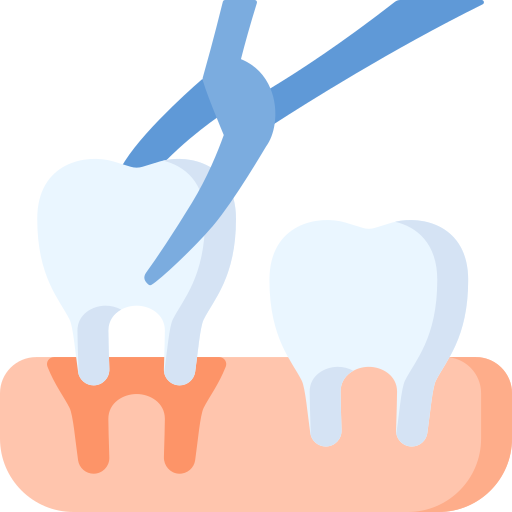
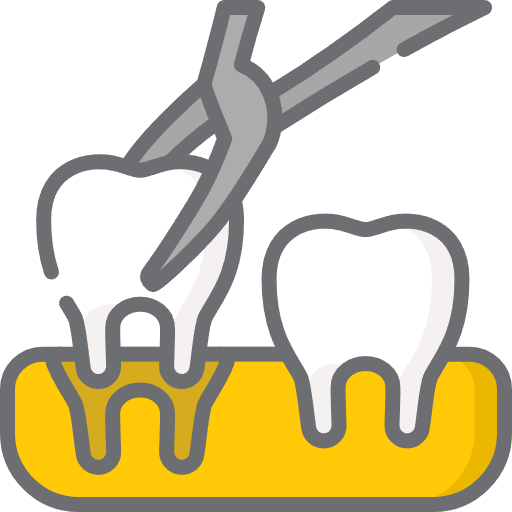
photo_change for treatment

diff --git a/index.html b/index.html
@@ -348,21 +348,21 @@
             <div class="item-container"> 
                 <div class="treatment-item" onclick="window.location.href='braces.html';">
                     <span class="number">01</span>
-                    <img src="assets/image/teeth_braces.png" alt="Braces Icon">
+                    <img src="assets/image/Braces.png" alt="Braces Icon">
                     <p>Braces</p>
                     <span class="icon"><i class="bi bi-arrow-up-right-square-fill"></i></span>  
                 </div>
                 <div class="separator"></div>
                 <div class="treatment-item" onclick="window.location.href='teeth_whitening.html';">
                     <span class="number">02</span>
-                    <img src="assets/image/teeth_clean.png" alt="Teeth Whitening Icon">
+                    <img src="assets/image/Teeth Whitening.png" alt="Teeth Whitening Icon">
                     <p>Teeth Whitening</p>
                     <span class="icon"><i class="bi bi-arrow-up-right-square-fill"></i></span>  
                 </div>
                 <div class="separator"></div>
                 <div class="treatment-item" onclick="window.location.href='#';">
                     <span class="number">03</span>
-                    <img src="assets/image/electric-toothbrush_15537822.png" alt="Scaling & Polishing Icon">
+                    <img src="assets/image/Scaling.png" alt="Scaling & Polishing Icon">
                     <p>Scaling & Polishing</p>
                     <span class="icon"><i class="bi bi-arrow-up-right-square-fill"></i></span>  
                 </div>
@@ -376,14 +376,14 @@
                 <div class="separator"></div>                
                 <div class="treatment-item" onclick="window.location.href='#';">
                     <span class="number">05</span>
-                    <img src="assets/image/teeth_Dental_veneers.png" alt="Dental Veneers Icon">
+                    <img src="assets/image/veener.png" alt="Dental Veneers Icon">
                     <p>Dental Veneers</p>
                     <span class="icon"><i class="bi bi-arrow-up-right-square-fill"></i></span>  
                 </div>
                 <div class="separator"></div>
                 <div class="treatment-item" onclick="window.location.href='#';">
                     <span class="number">06</span>
-                    <img src="assets/image/tooth_Fillings.png" alt="Fillings Icon">
+                    <img src="assets/image/filling.png" alt="Fillings Icon">
                     <p>Fillings</p>
                     <span class="icon"><i class="bi bi-arrow-up-right-square-fill"></i></span>  
                 </div>
@@ -391,14 +391,14 @@
                 
                 <div class="treatment-item" onclick="window.location.href='#';">
                     <span class="number">07</span>
-                    <img src="assets/image/Teeth-root-canal.png" alt="Root Canal Treatment Icon">
+                    <img src="assets/image/root-canal.png" alt="Root Canal Treatment Icon">
                     <p>Root Canal Treatment</p>
                     <span class="icon"><i class="bi bi-arrow-up-right-square-fill"></i></span>  
                 </div>
                 <div class="separator"></div>
                 <div class="treatment-item" onclick="window.location.href='#';">
                     <span class="number">08</span>
-                    <img src="assets/image/teeth_Crown&Bridge.png" alt="Crown & Bridge Icon">
+                    <img src="assets/image/bridge.png" alt="Crown & Bridge Icon">
                     <p>Crown & Bridge</p>
                     <span class="icon"><i class="bi bi-arrow-up-right-square-fill"></i></span>
                 </div>
@@ -406,21 +406,21 @@
                 <div class="separator"></div>
                 <div class="treatment-item" onclick="window.location.href='#';">
                     <span class="number">09</span>
-                    <img src="assets/image/teeth_implant.png" alt="Dental Implant Icon">
+                    <img src="assets/image/implant.png" alt="Dental Implant Icon">
                     <p>Dental Implant</p>
                     <span class="icon"><i class="bi bi-arrow-up-right-square-fill"></i></span> 
                 </div>
                 <div class="separator"></div>
                 <div class="treatment-item" onclick="window.location.href='#';">
                     <span class="number">10</span>
-                    <img src="assets/image/tooth-remove.png" alt="Wisdom Teeth Removal Icon">
+                    <img src="assets/image/Wisdom Teeth.png" alt="Wisdom Teeth Removal Icon">
                     <p>Wisdom Teeth Removal</p>
                     <span class="icon"><i class="bi bi-arrow-up-right-square-fill"></i></span>  
                 </div>
                 <div class="separator"></div>
                 <div class="treatment-item" onclick="window.location.href='#';">
                     <span class="number">11</span>
-                    <img src="assets/image/teeth_Denture.png" alt="Denture Icon">
+                    <img src="assets/image/Denture.png" alt="Denture Icon">
                     <p>Denture</p>
                     <span class="icon"><i class="bi bi-arrow-up-right-square-fill"></i></span>  
                 </div>

diff --git a/assets/css/style.css b/assets/css/style.css
@@ -511,7 +511,8 @@ section {
 /* Very small screens (below 480px) */
 @media (max-width: 480px) {
     .info-divider {
-        width: 100%;
+        width: 88%;
+        margin-left: 10px;
     }
     .p_we_style{
         font-size: 18px;
@@ -2166,7 +2167,7 @@ section {
         margin-left: 21px !important;
     }
     .our_panel-section {
-        padding-top: 15px;
+        padding-top: 5px;
     }
 }
 
@@ -2317,7 +2318,7 @@ section {
         display: block;        
     }
     .landing-page-section{
-        height: 1280px;
+        height: 1300px;
     }
     
     .header_wrapper {
@@ -2416,7 +2417,7 @@ section {
         line-height: 0.9;
     }
     .info-subtext {
-        font-size: 15px;
+        font-size: 17px;
     }
 
     .post_slide {
